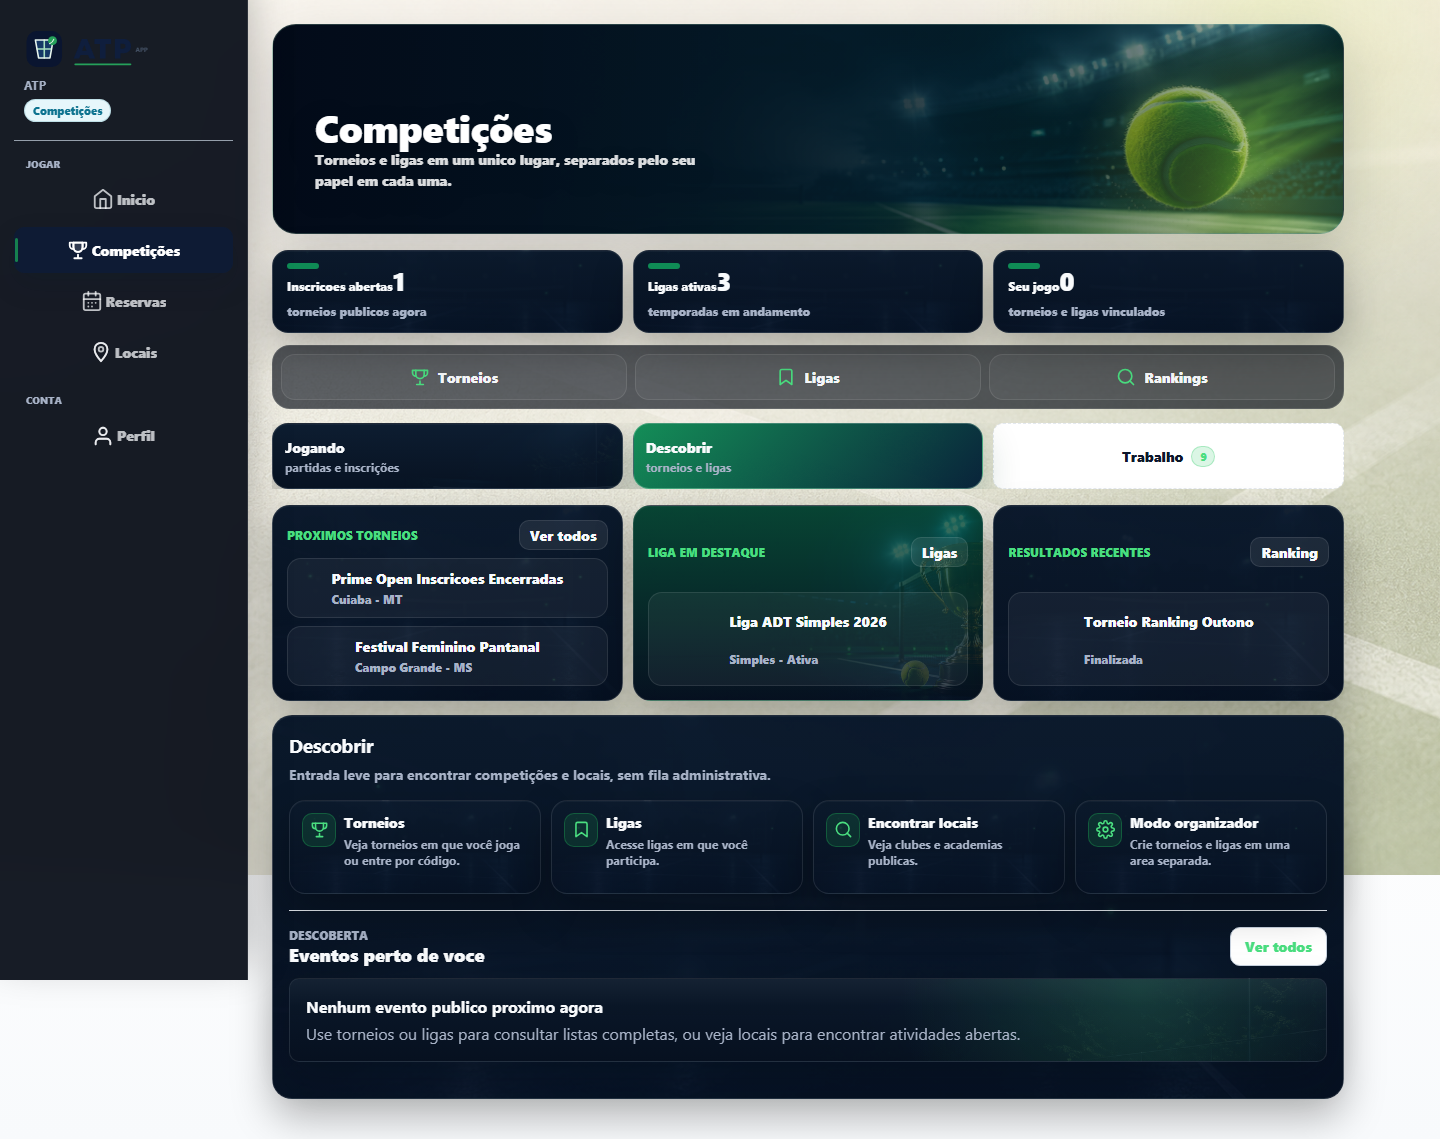
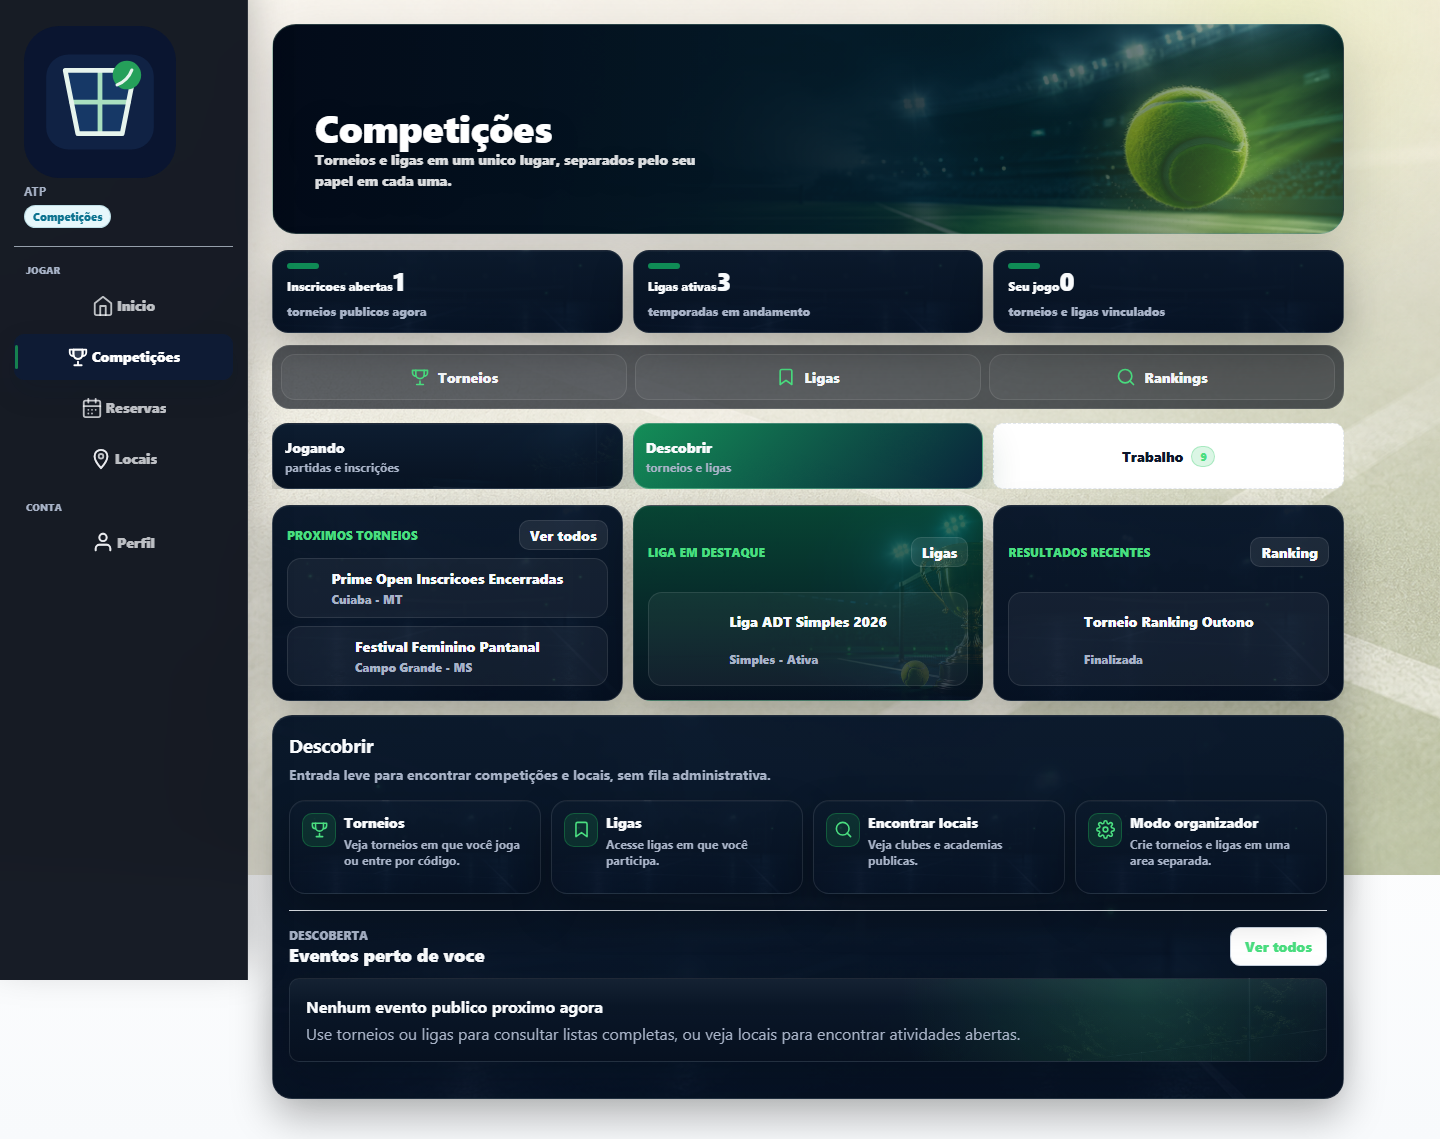
feat: ATP fase 1 — rebrand, perfil, locais, schema base

Changed region(s): [[0.0, 0.0307, 0.125, 0.2766], [0.0312, 0.3073, 0.125, 0.4302], [0.0625, 0.4609, 0.125, 0.4917]]

diff --git a/apps/web/src/App.css b/apps/web/src/App.css
@@ -27500,3 +27500,258 @@ label {
     grid-template-columns: 1fr;
   }
 }
+
+/* ----- Home jogador: hardening visual pagina por pagina ----- */
+.app-shell--player:has(.home-player-os--visual) {
+  background:
+    radial-gradient(circle at 74% 10%, rgba(34, 197, 94, 0.16), transparent 28rem),
+    radial-gradient(circle at 12% 0%, rgba(56, 189, 248, 0.1), transparent 24rem),
+    linear-gradient(180deg, rgba(3, 9, 20, 0.96) 0%, rgba(6, 17, 31, 0.98) 46%, #030914 100%);
+  color: var(--pdark-text-main);
+}
+
+html:has(.app-shell--player .home-player-os--visual),
+body:has(.app-shell--player .home-player-os--visual),
+#root:has(.app-shell--player .home-player-os--visual) {
+  background: #030914;
+}
+
+.app-shell--player:has(.home-player-os--visual) .app-header {
+  background: rgba(3, 9, 20, 0.96);
+  border-bottom-color: rgba(255, 255, 255, 0.1);
+  box-shadow: 0 18px 42px rgba(0, 0, 0, 0.22);
+}
+
+@media (min-width: 960px) {
+  .app-shell--player:has(.home-player-os--visual) .app-header {
+    width: calc(100% - var(--desktop-nav-width));
+  }
+}
+
+.app-shell--player:has(.home-player-os--visual) .app-content {
+  background:
+    linear-gradient(90deg, rgba(3, 9, 20, 0.82), rgba(3, 9, 20, 0.32) 48%, rgba(3, 9, 20, 0.78)),
+    url("./assets/pdark-home-player-desktop-hero.png") center top / cover fixed no-repeat,
+    #030914;
+  max-width: none;
+}
+
+.app-shell--player:has(.home-player-os--visual) .app-content > * {
+  max-width: 1220px;
+}
+
+.app-shell--player:has(.home-player-os--visual) .bottom-nav {
+  background:
+    linear-gradient(180deg, rgba(3, 9, 20, 0.98), rgba(6, 17, 31, 0.96)),
+    url("./assets/pdark-messages-chat-bg.png") center / cover no-repeat;
+  border-color: rgba(255, 255, 255, 0.12);
+}
+
+.app-shell--player:has(.home-player-os--visual) .bottom-nav-brand {
+  align-items: center;
+  display: flex;
+  flex-direction: row;
+  flex-wrap: wrap;
+  gap: 10px;
+}
+
+.app-shell--player:has(.home-player-os--visual) .bottom-nav-brand img {
+  background: rgba(7, 18, 34, 0.92);
+  border: 1px solid rgba(255, 255, 255, 0.1);
+  border-radius: 12px;
+  height: 38px;
+  padding: 5px;
+  width: 38px;
+}
+
+.app-shell--player:has(.home-player-os--visual) .bottom-nav-brand span {
+  color: #f8fafc;
+  font-size: 1.22rem;
+  font-weight: 950;
+  line-height: 1;
+}
+
+.app-shell--player:has(.home-player-os--visual) .bottom-nav-context {
+  color: rgba(248, 250, 252, 0.72);
+  flex-basis: 100%;
+  margin-left: 48px;
+}
+
+.app-shell--player:has(.home-player-os--visual) .bottom-nav-group-label {
+  color: rgba(248, 250, 252, 0.58);
+}
+
+.app-shell--player:has(.home-player-os--visual) .bottom-nav button {
+  color: rgba(248, 250, 252, 0.76);
+}
+
+.app-shell--player:has(.home-player-os--visual) .bottom-nav button:hover {
+  background: rgba(255, 255, 255, 0.07);
+  color: #ffffff;
+}
+
+.app-shell--player:has(.home-player-os--visual) .bottom-nav button.active {
+  background: linear-gradient(135deg, #25d366, #16a34a);
+  border-color: rgba(74, 222, 128, 0.5);
+  box-shadow: 0 14px 32px rgba(34, 197, 94, 0.25);
+  color: #ffffff;
+}
+
+.app-shell--player:has(.home-player-os--visual) .home-player-os--visual,
+.app-shell--player:has(.home-player-os--visual) .home-section,
+.app-shell--player:has(.home-player-os--visual) .player-hub-panel {
+  position: relative;
+  z-index: 1;
+}
+
+.app-shell--player:has(.home-player-os--visual) .home-visual-hero {
+  background:
+    linear-gradient(90deg, rgba(3, 9, 20, 0.92) 0%, rgba(5, 17, 31, 0.74) 44%, rgba(5, 17, 31, 0.18) 100%),
+    radial-gradient(circle at 88% 78%, rgba(216, 244, 73, 0.22), transparent 18rem),
+    url("./assets/pdark-home-player-desktop-hero.png") center / cover no-repeat;
+  border: 1px solid rgba(255, 255, 255, 0.16);
+  box-shadow: 0 24px 72px rgba(0, 0, 0, 0.42);
+  filter: saturate(1.14) contrast(1.06);
+  overflow: hidden;
+}
+
+.app-shell--player:has(.home-player-os--visual) .home-visual-hero::after {
+  background:
+    linear-gradient(180deg, transparent 0%, rgba(3, 9, 20, 0.18) 58%, rgba(3, 9, 20, 0.52) 100%);
+}
+
+.app-shell--player:has(.home-player-os--visual) .home-visual-hero h1,
+.app-shell--player:has(.home-player-os--visual) .home-visual-hero p,
+.app-shell--player:has(.home-player-os--visual) .home-visual-hero .app-visual-eyebrow {
+  color: #ffffff;
+  text-shadow: 0 2px 16px rgba(0, 0, 0, 0.42);
+}
+
+.app-shell--player:has(.home-player-os--visual) .home-today-rows--floating .app-object-row {
+  background: rgba(8, 20, 36, 0.72);
+  border-color: rgba(255, 255, 255, 0.16);
+}
+
+.app-shell--player:has(.home-player-os--visual) .home-intent-rail--visual button {
+  background:
+    radial-gradient(circle at 85% 12%, rgba(216, 244, 73, 0.12), transparent 6rem),
+    linear-gradient(180deg, rgba(12, 27, 45, 0.94), rgba(8, 20, 36, 0.84)),
+    url("./assets/pdark-messages-chat-bg.png") center / cover no-repeat;
+  border: 1px solid rgba(255, 255, 255, 0.14);
+  box-shadow: 0 18px 40px rgba(0, 0, 0, 0.24), inset 0 1px 0 rgba(255, 255, 255, 0.05);
+}
+
+.app-shell--player:has(.home-player-os--visual) .home-intent-rail--visual button::before {
+  background:
+    var(--shortcut-image) center / 30px 30px no-repeat,
+    linear-gradient(145deg, rgba(34, 197, 94, 0.24), rgba(20, 184, 166, 0.12));
+  border-color: rgba(74, 222, 128, 0.34);
+  box-shadow: inset 0 1px 0 rgba(255, 255, 255, 0.18), 0 10px 24px rgba(34, 197, 94, 0.12);
+}
+
+.app-shell--player:has(.home-player-os--visual) .home-intent-rail--visual button::after {
+  color: #4ade80;
+  content: ">";
+}
+
+.app-shell--player:has(.home-player-os--visual) .home-intent-rail--visual button strong {
+  color: #f8fafc;
+}
+
+.app-shell--player:has(.home-player-os--visual) .home-intent-rail--visual button small {
+  color: rgba(203, 213, 225, 0.78);
+}
+
+.app-shell--player:has(.home-player-os--visual) .section-title h2,
+.app-shell--player:has(.home-player-os--visual) .home-discovery-heading strong {
+  color: #ffffff;
+}
+
+.app-shell--player:has(.home-player-os--visual) .home-context-eyebrow,
+.app-shell--player:has(.home-player-os--visual) .section-title .link {
+  color: #4ade80;
+}
+
+.app-shell--player:has(.home-player-os--visual) .player-hub-section,
+.app-shell--player:has(.home-player-os--visual) .home-discovery-card,
+.app-shell--player:has(.home-player-os--visual) .home-empty-inline {
+  background:
+    linear-gradient(180deg, rgba(12, 27, 45, 0.9), rgba(8, 20, 36, 0.82)),
+    url("./assets/pdark-messages-chat-bg.png") center / cover no-repeat;
+  border-color: rgba(255, 255, 255, 0.13);
+  color: var(--pdark-text-main);
+}
+
+.app-shell--player:has(.home-player-os--visual) .player-hub-section-list button,
+.app-shell--player:has(.home-player-os--visual) .player-hub-section-action {
+  background: rgba(255, 255, 255, 0.045);
+  border-color: rgba(255, 255, 255, 0.12);
+  color: var(--pdark-text-main);
+}
+
+.app-shell--player:has(.home-player-os--visual) .player-hub-section-list button.urgent {
+  background: rgba(245, 158, 11, 0.12);
+  border-color: rgba(245, 158, 11, 0.32);
+}
+
+.app-shell--player:has(.home-player-os--visual) .player-hub-section header strong,
+.app-shell--player:has(.home-player-os--visual) .player-hub-section-list strong,
+.app-shell--player:has(.home-player-os--visual) .home-discovery-card strong {
+  color: #f8fafc;
+}
+
+.app-shell--player:has(.home-player-os--visual) .player-hub-section header small,
+.app-shell--player:has(.home-player-os--visual) .player-hub-section p,
+.app-shell--player:has(.home-player-os--visual) .player-hub-section-list span,
+.app-shell--player:has(.home-player-os--visual) .player-hub-section-list small,
+.app-shell--player:has(.home-player-os--visual) .home-discovery-heading span,
+.app-shell--player:has(.home-player-os--visual) .home-discovery-card small,
+.app-shell--player:has(.home-player-os--visual) .home-discovery-card em {
+  color: rgba(203, 213, 225, 0.78);
+}
+
+.app-shell--player:has(.home-player-os--visual) .player-hub-section header span {
+  color: #4ade80;
+}
+
+.app-shell--player:has(.home-player-os--visual) .player-hub-section em,
+.app-shell--player:has(.home-player-os--visual) .home-discovery-card .status-badge {
+  background: rgba(34, 197, 94, 0.15);
+  border-color: rgba(74, 222, 128, 0.35);
+  color: #86efac;
+}
+
+.app-shell--player:has(.home-player-os--visual) .home-discovery-body {
+  background: rgba(5, 14, 28, 0.88);
+}
+
+@media (max-width: 760px) {
+  .app-shell--player:has(.home-player-os--visual) .app-content {
+    background:
+      linear-gradient(180deg, rgba(3, 9, 20, 0.72), rgba(3, 9, 20, 0.98)),
+      url("./assets/pdark-home-player-mobile-hero.png") center top / cover fixed no-repeat,
+      #030914;
+  }
+
+  .app-shell--player:has(.home-player-os--visual) .home-intent-rail--visual {
+    grid-auto-columns: 112px;
+  }
+
+  .app-shell--player:has(.home-player-os--visual) .home-intent-rail--visual button {
+    min-height: 104px;
+    padding: 11px;
+  }
+
+  .app-shell--player:has(.home-player-os--visual) .home-intent-rail--visual button::before {
+    height: 42px;
+    width: 42px;
+  }
+
+  .app-shell--player:has(.home-player-os--visual) .home-intent-rail--visual button strong {
+    font-size: 0.82rem;
+  }
+
+  .app-shell--player:has(.home-player-os--visual) .home-intent-rail--visual button small {
+    font-size: 0.68rem;
+  }
+}

diff --git a/apps/web/src/components/BottomNav.tsx b/apps/web/src/components/BottomNav.tsx
@@ -2,7 +2,7 @@ import { useLocation, useNavigate } from "react-router-dom";
 import type { ComponentType } from "react";
 import type { User } from "@supabase/supabase-js";
 import { useMemo } from "react";
-import logoMark from "../assets/logo-atp-mark.svg";
+import logoSymbol from "../assets/logo-atp-symbol.svg";
 import type { WorkspaceAccessSummary } from "../lib/workspace-access";
 import { getGlobalNavigationVisibility } from "../lib/role-visibility";
 import { useUserMode, type UserMode } from "../lib/user-mode-context";
@@ -143,7 +143,7 @@ export function BottomNav({ user }: { user: User }) {
   return (
     <nav className={navClassName} aria-label="Navegacao principal">
       <div className="bottom-nav-brand" aria-label={`Area atual: ${contextLabel}`}>
-        <img src={logoMark} alt="" />
+        <img src={logoSymbol} alt="" />
         <span>{visibility.activeSurface === "management" ? "Gestao esportiva" : "ATP"}</span>
         <small className="bottom-nav-context">{contextLabel}</small>
       </div>
